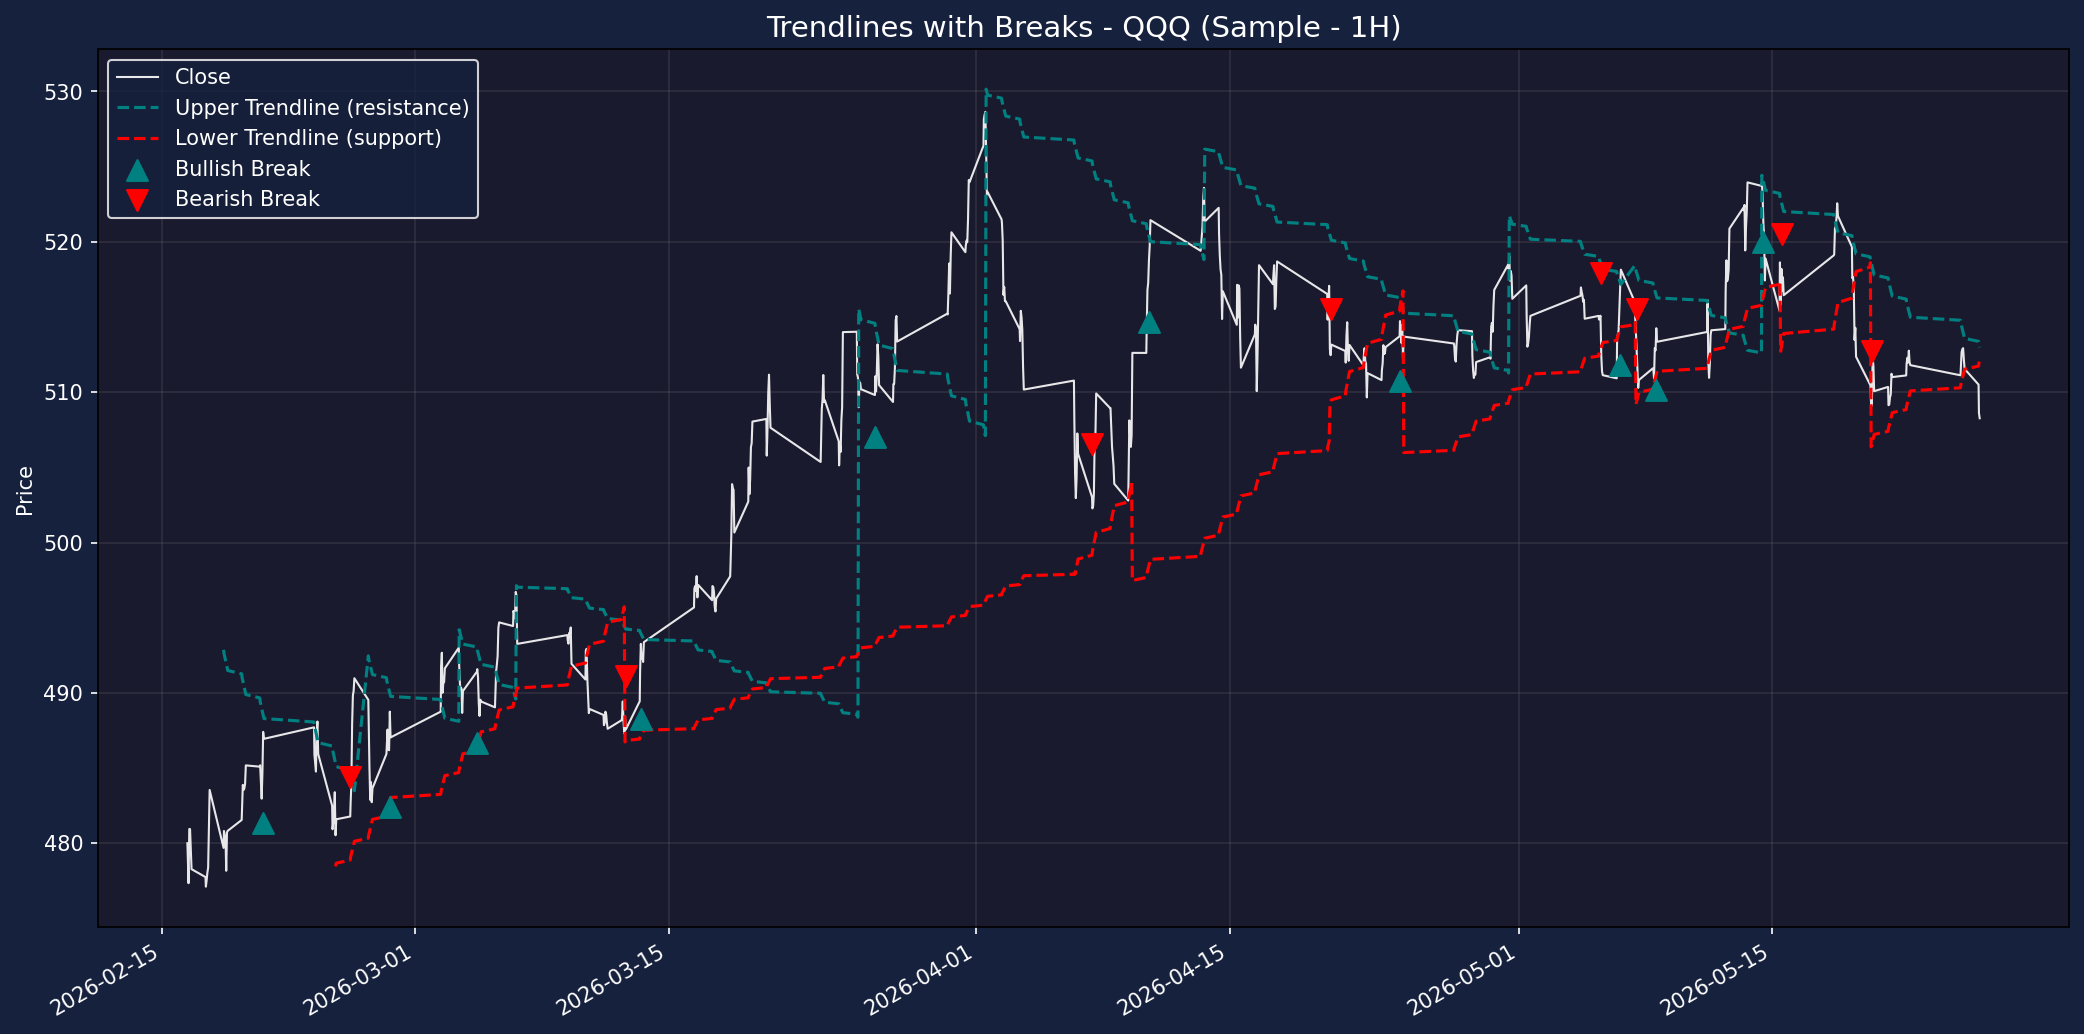
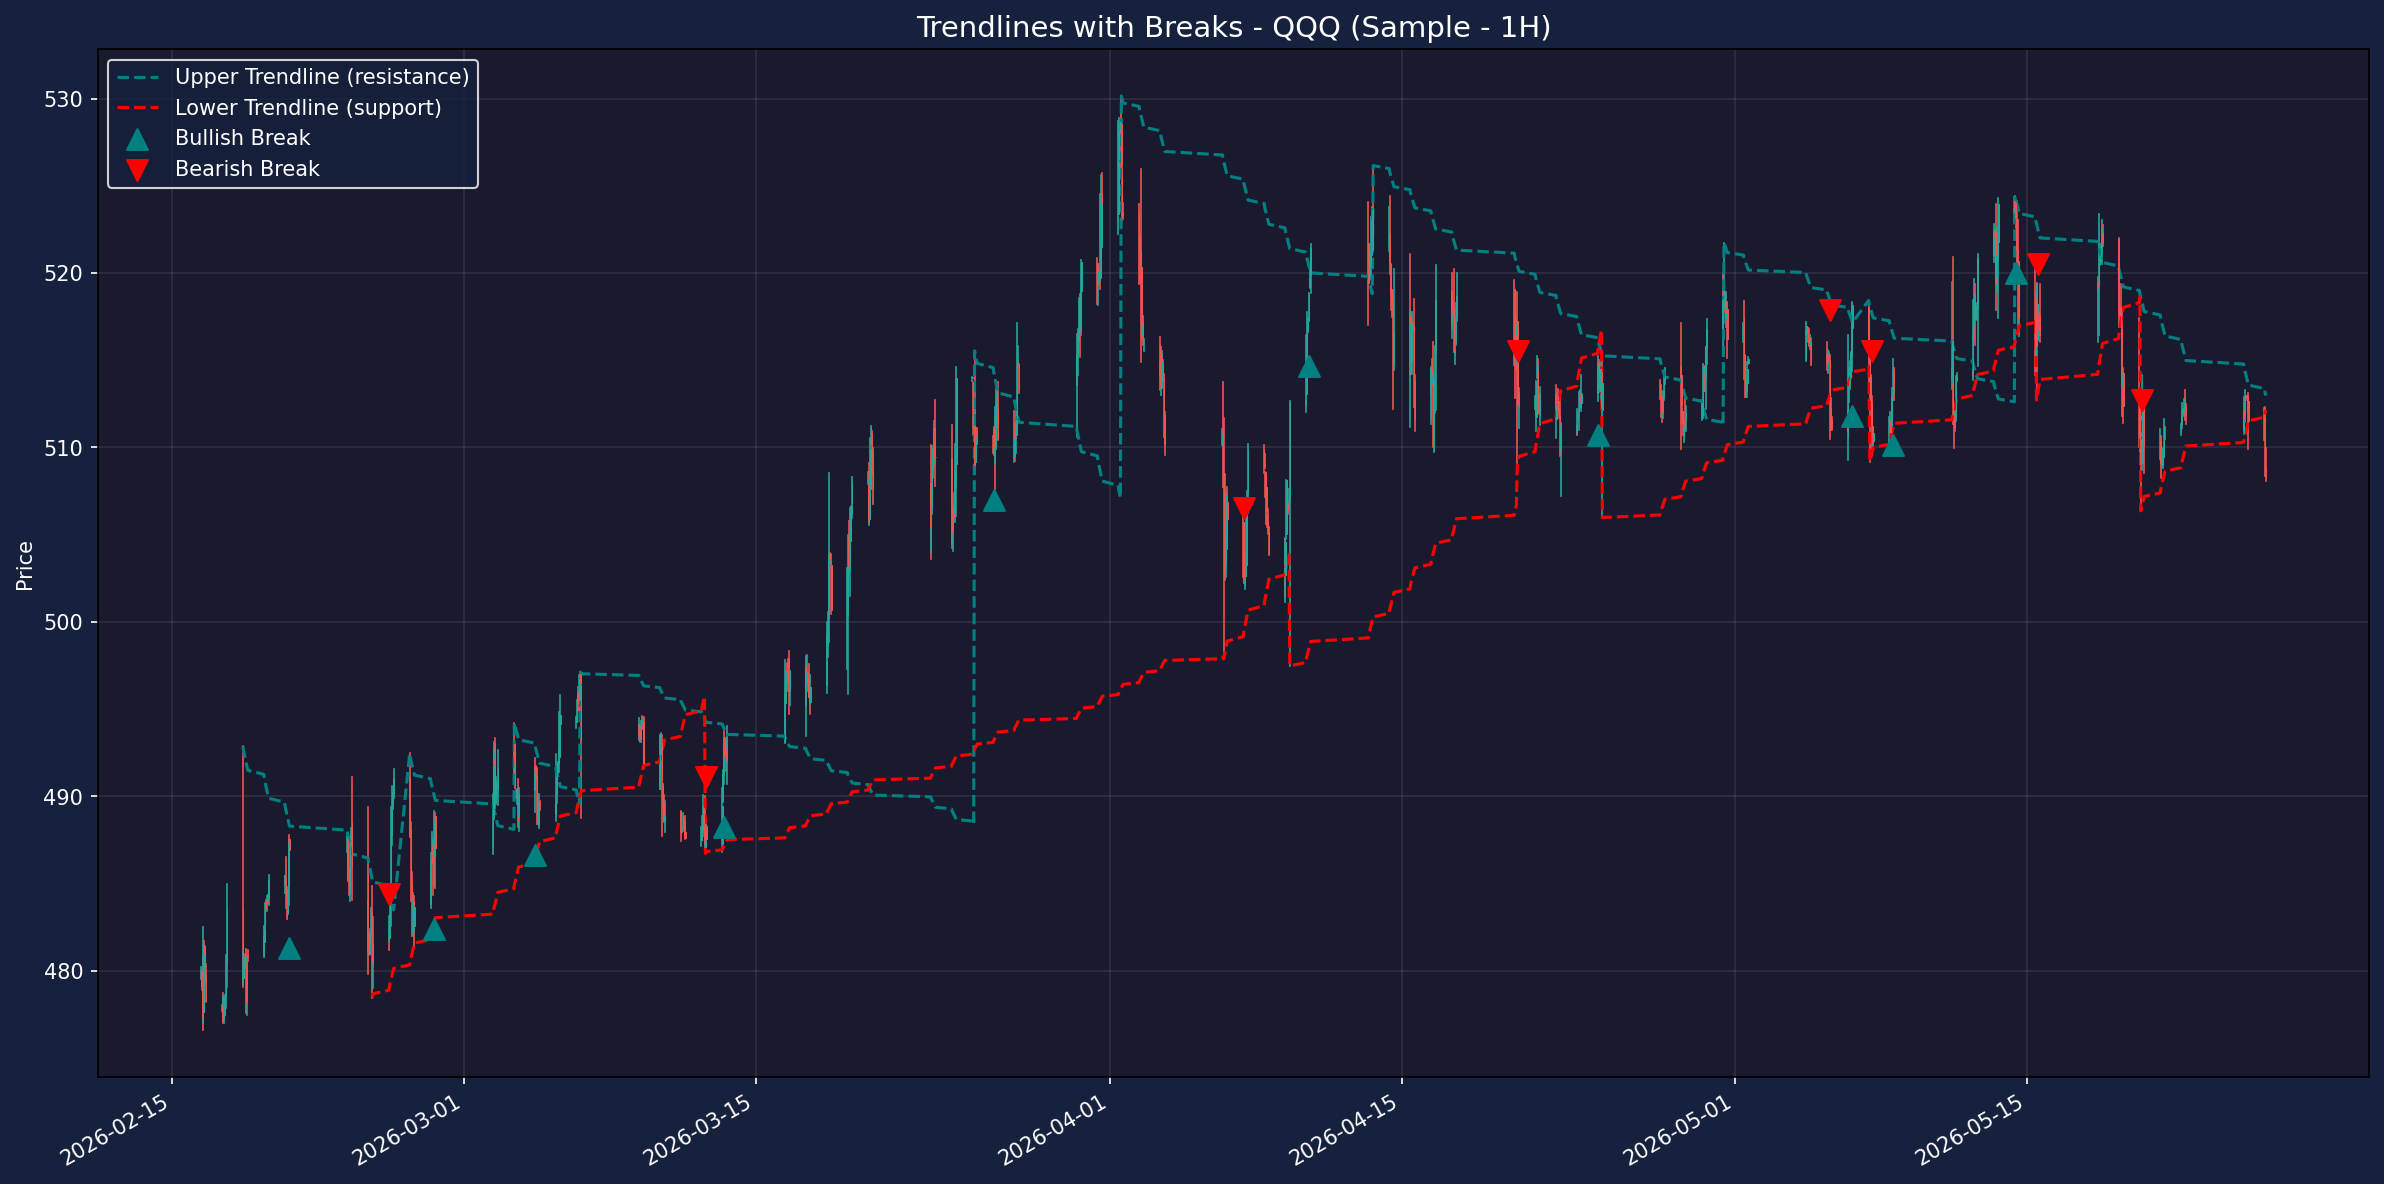
Add candlestick chart visualization for hourly candles
- Replaced line chart with proper OHLC candlestick rendering
- Green/red candles with wicks for bullish/bearish bars
- Auto-detects candle width from time interval

https://claude.ai/code/session_01DABZPSKpWZNHvDBjaKqYac

diff --git a/trendline_breaks/core/chart.py b/trendline_breaks/core/chart.py
@@ -2,13 +2,51 @@
 Chart module - visualize trendlines and breakout signals.
 """
 
+import numpy as np
 import pandas as pd
 import matplotlib.pyplot as plt
 import matplotlib.dates as mdates
+from matplotlib.collections import LineCollection
+from matplotlib.patches import Rectangle
+
+
+def _draw_candlesticks(ax, df: pd.DataFrame, width_hours: float = 0.6):
+    """Draw candlestick chart on the given axes."""
+    dates = mdates.date2num(df.index.to_pydatetime())
+
+    # Auto-detect candle width based on median time gap
+    if len(dates) > 1:
+        gaps = np.diff(dates)
+        candle_width = np.median(gaps) * width_hours
+    else:
+        candle_width = 0.02
+
+    for i in range(len(df)):
+        o = df["Open"].iloc[i]
+        h = df["High"].iloc[i]
+        l = df["Low"].iloc[i]
+        c = df["Close"].iloc[i]
+        d = dates[i]
+
+        color = "#26a69a" if c >= o else "#ef5350"  # green / red
+
+        # Wick (high-low line)
+        ax.plot([d, d], [l, h], color=color, linewidth=0.8, zorder=2)
+
+        # Body
+        body_bottom = min(o, c)
+        body_height = abs(c - o)
+        if body_height < 0.01:
+            body_height = 0.01
+        rect = Rectangle((d - candle_width / 2, body_bottom), candle_width,
+                          body_height, facecolor=color, edgecolor=color,
+                          linewidth=0.5, zorder=3)
+        ax.add_patch(rect)
 
 
 def plot_trendlines(df: pd.DataFrame, signals: pd.DataFrame,
-                    symbol: str = "", save_path: str | None = None):
+                    symbol: str = "", save_path: str | None = None,
+                    candlestick: bool = True):
     """
     Plot price chart with trendlines and breakout markers.
 
@@ -17,11 +55,15 @@ def plot_trendlines(df: pd.DataFrame, signals: pd.DataFrame,
         signals: Output from compute_trendlines()
         symbol: Ticker symbol for the title
         save_path: If provided, save chart to this path instead of showing
+        candlestick: If True, draw candlestick chart instead of line
     """
-    fig, ax = plt.subplots(figsize=(14, 7))
+    fig, ax = plt.subplots(figsize=(16, 8))
 
     # Price
-    ax.plot(df.index, df["Close"], color="white", linewidth=1, label="Close", alpha=0.9)
+    if candlestick:
+        _draw_candlesticks(ax, df)
+    else:
+        ax.plot(df.index, df["Close"], color="white", linewidth=1, label="Close", alpha=0.9)
 
     # Trendlines
     ax.plot(df.index, signals["upper"], color="teal", linewidth=1.5,

diff --git a/trendline_breaks/test_qqq.py b/trendline_breaks/test_qqq.py
@@ -41,10 +41,11 @@ def main():
                   f"Entry: ${t['entry_price']:.2f} Exit: ${t['exit_price']:.2f} | "
                   f"P&L: ${t['pnl']:.2f} [{direction}]")
 
-    # Save chart
-    print("\nSaving chart to trendline_breaks/qqq_test_chart.png...")
+    # Save candlestick chart
+    print("\nSaving candlestick chart to trendline_breaks/qqq_test_chart.png...")
     plot_trendlines(df, signals, "QQQ (Sample - 1H)",
-                    save_path="trendline_breaks/qqq_test_chart.png")
+                    save_path="trendline_breaks/qqq_test_chart.png",
+                    candlestick=True)
 
 
 if __name__ == "__main__":
